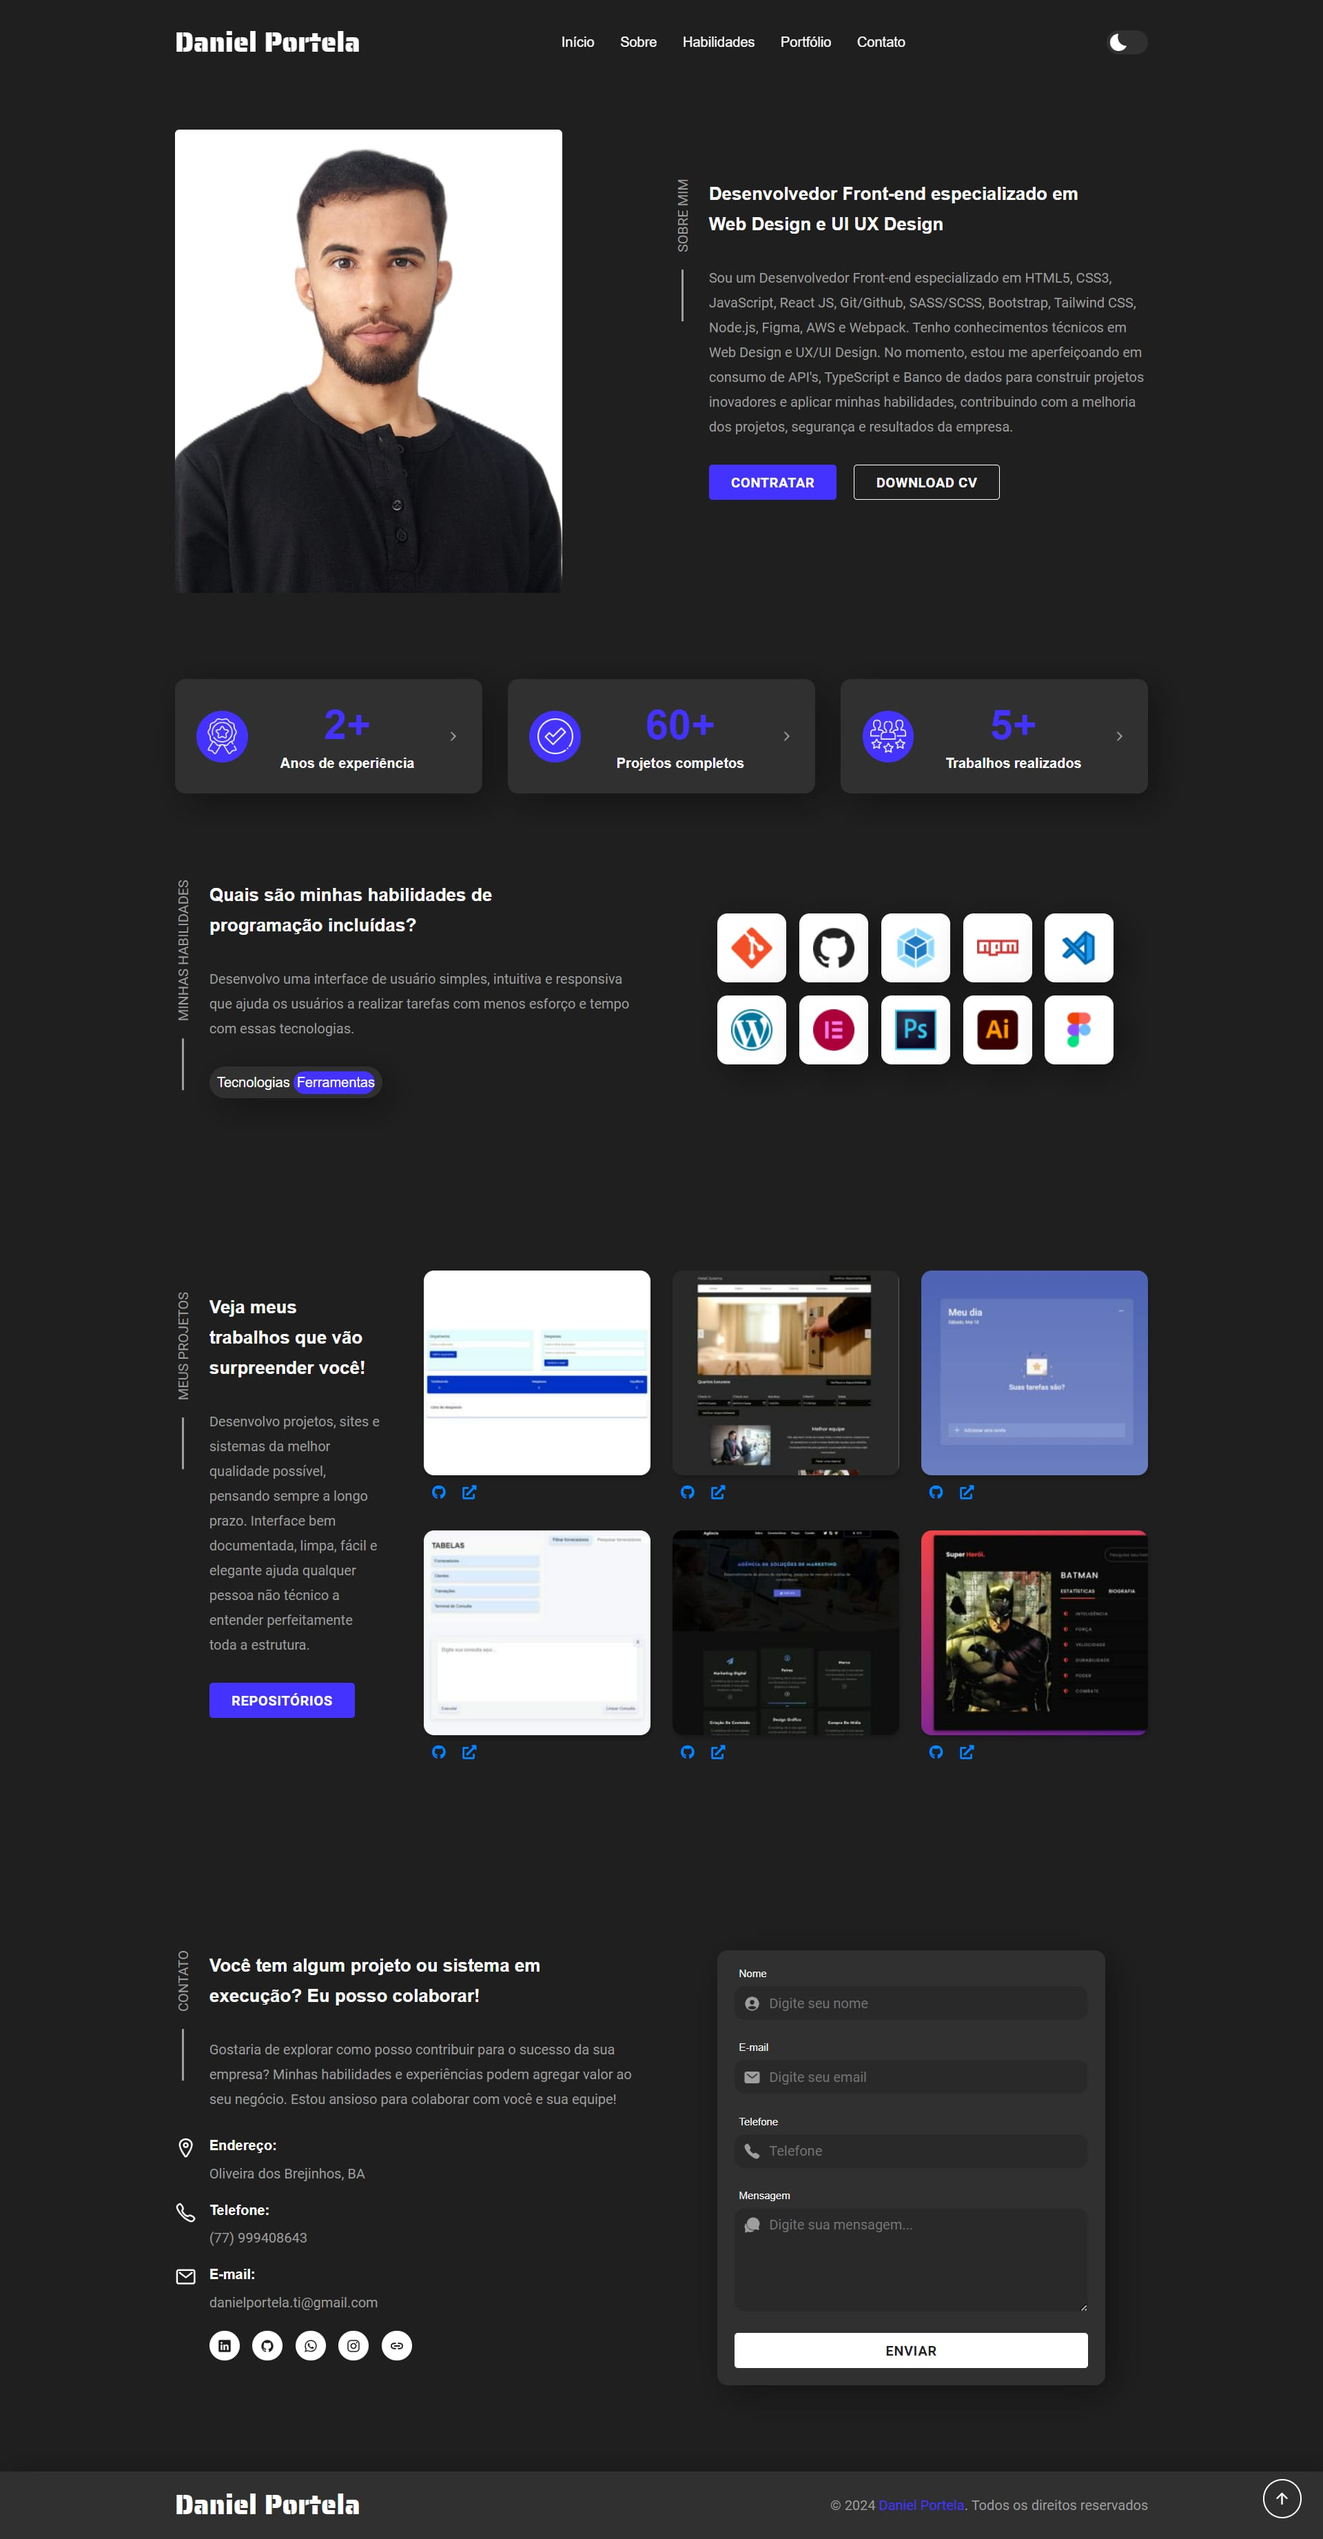
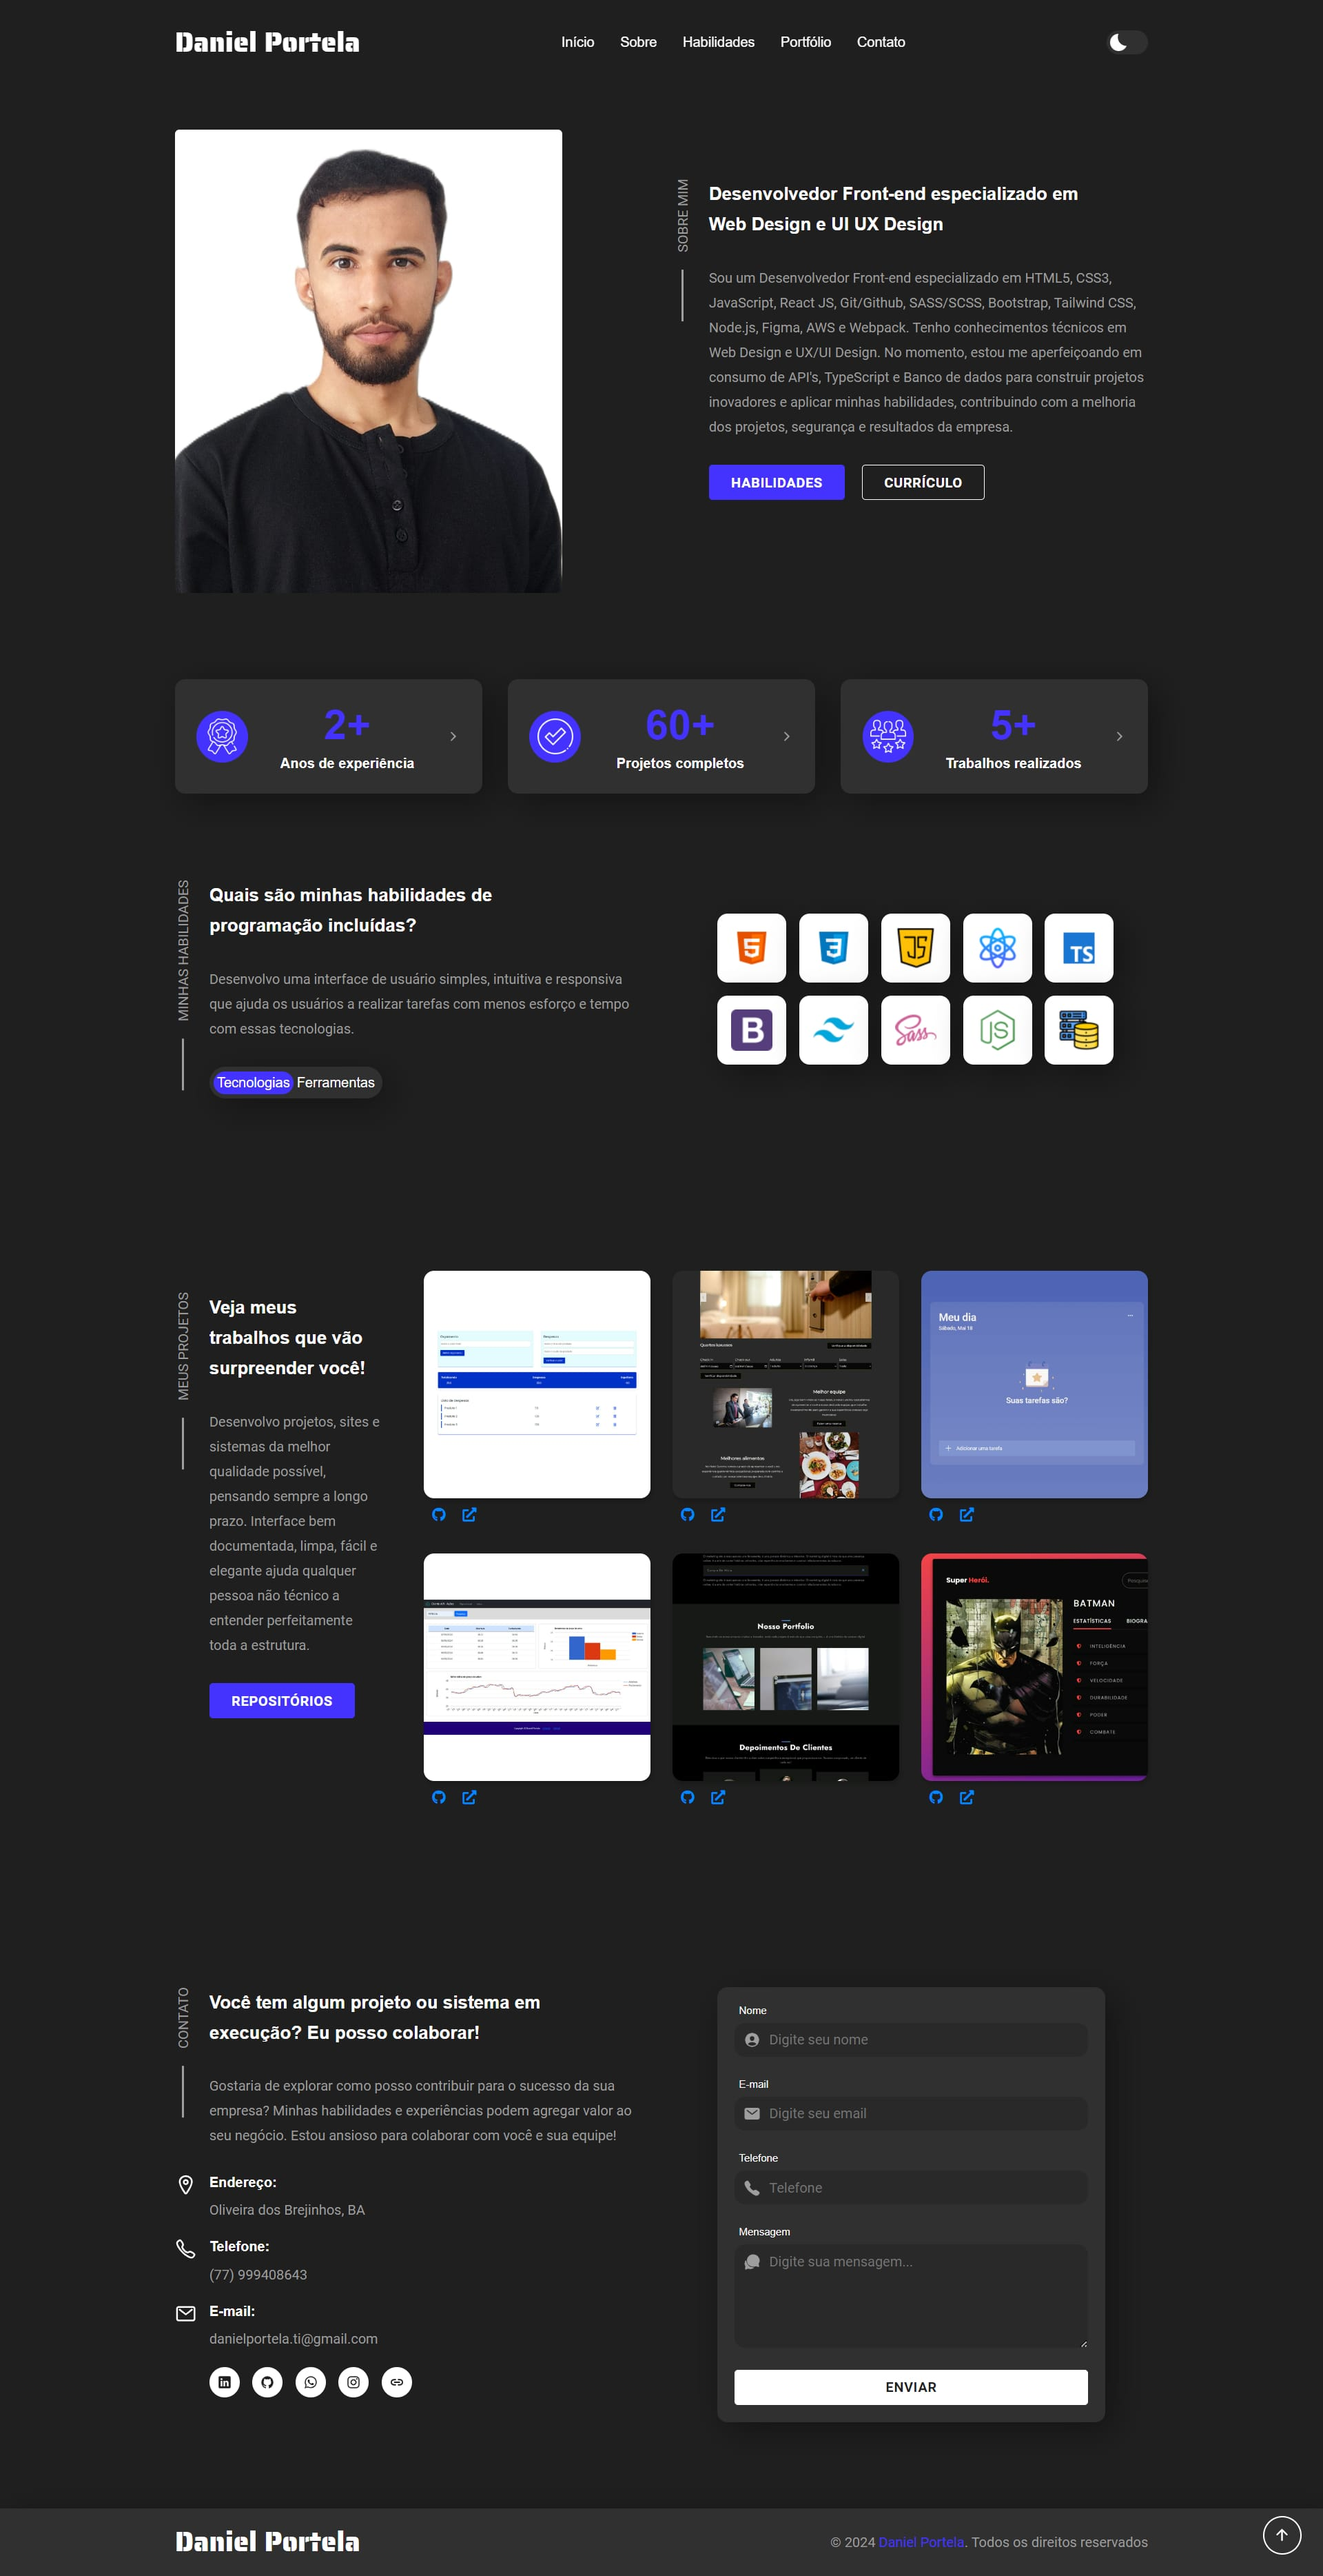
Atualizar portfolio

diff --git a/index.html b/index.html
@@ -80,8 +80,7 @@
           </p>
 
           <div class="btn-group">
-            <a href="https://wa.me/77999408643" target="_blank" rel="noopener noreferrer"><button
-                class="btn btn-secondary">Contratar</button></a>
+            <a href="#skills"><button class="btn btn-secondary">Habilidades</button></a>
             <a href="https://drive.google.com/file/d/1KGV1meCGfsobP3djynBb8-dXLF25mbFu/view" target="_blank"><button
                 class="btn btn-primary">Currículo</button></a>
           </div>
@@ -351,7 +350,7 @@
           <li>
             <a href="https://pagebudget.netlify.app/" class="project-card" target="_blank">
               <figure class="card-banner">
-                <img src="./assets/images/orcamento.jpg" class="w-100"
+                <img src="./assets/images/pagebudget.jpg" class="w-100"
                   alt="A fujifilm instant camera on a dark electric blue background.">
                 </div>
               </figure>
@@ -361,10 +360,10 @@
               </div>
             </a>
             <div class="card-links">
-              <a href="https://github.com/daniel-portela/budget-page" target="_blank">
+              <a href="https://github.com/daniel-portela/budget-page" target="_blank" title="ver explicação">
                 <i class="fab fa-github"></i>
               </a>
-              <a href="https://pagebudget.netlify.app/" target="_blank">
+              <a href="https://pagebudget.netlify.app/" target="_blank" title="vizualizar">
                 <i class="fas fa-external-link-alt"></i>
               </a>
           </li>
@@ -372,20 +371,21 @@
           <li>
             <a href="https://bancodedadosjs.netlify.app/" class="project-card" target="_blank">
               <figure class="card-banner">
-                <img src="./assets/images/bancodedados.jpg" class="w-100"
+                <img src="./assets/images/interface-api.jpg" class="w-100"
                   alt="Projeto de sistemas de consulta de banco de dados">
                 </div>
               </figure>
               <div class="card-content">
-                <h3 class="h4 card-title">Banco de dados</h3>
-                <time class="publish-date" datetime="2022-04">HTML, CSS e JavaScript</time>
+                <h3 class="h4 card-title">Interface API Ações</h3>
+                <time class="publish-date" datetime="2022-04">HTML, CSS, JavaScript e API</time>
               </div>
             </a>
             <div class="card-links">
-              <a href="https://github.com/daniel-portela/consulta-banco-de-dados" target="_blank">
+              <a href="https://github.com/daniel-portela/interface-api-cliente-acoes" target="_blank"
+                title="ver explicação">
                 <i class="fab fa-github"></i>
               </a>
-              <a href="https://bancodedadosjs.netlify.app/" target="_blank">
+              <a href="https://cotacaoapiclient.netlify.app/" target="_blank" title="vizualizar">
                 <i class="fas fa-external-link-alt"></i>
               </a>
           </li>
@@ -403,10 +403,10 @@
               </div>
             </a>
             <div class="card-links">
-              <a href="https://github.com/daniel-portela/hotel-Jurema-website" target="_blank">
+              <a href="https://github.com/daniel-portela/hotel-Jurema-website" target="_blank" title="ver explicação">
                 <i class="fab fa-github"></i>
               </a>
-              <a href="https://juremahotel.netlify.app/" target="_blank">
+              <a href="https://juremahotel.netlify.app/" target="_blank" title="vizualizar">
                 <i class="fas fa-external-link-alt"></i>
               </a>
           </li>
@@ -424,10 +424,11 @@
               </div>
             </a>
             <div class="card-links">
-              <a href="https://github.com/daniel-portela/digital-marketing-agency" target="_blank">
+              <a href="https://github.com/daniel-portela/digital-marketing-agency" target="_blank"
+                title="ver explicação">
                 <i class="fab fa-github"></i>
               </a>
-              <a href="https://digital-marketing-agency-lovat.vercel.app/" target="_blank">
+              <a href="https://digital-marketing-agency-lovat.vercel.app/" target="_blank" title="vizualizar">
                 <i class="fas fa-external-link-alt"></i>
               </a>
           </li>
@@ -445,10 +446,10 @@
               </div>
             </a>
             <div class="card-links">
-              <a href="https://github.com/daniel-portela/taskbuddy" target="_blank">
+              <a href="https://github.com/daniel-portela/taskbuddy" target="_blank" title="ver explicação">
                 <i class="fab fa-github"></i>
               </a>
-              <a href="https://apptaskbuddy.netlify.app/" target="_blank">
+              <a href="https://apptaskbuddy.netlify.app/" target="_blank" title="vizualizar">
                 <i class="fas fa-external-link-alt"></i>
               </a>
           </li>
@@ -466,10 +467,10 @@
               </div>
             </a>
             <div class="card-links">
-              <a href="https://github.com/daniel-portela/projeto-api" target="_blank">
+              <a href="https://github.com/daniel-portela/projeto-api" target="_blank" title="ver explicação">
                 <i class="fab fa-github"></i>
               </a>
-              <a href="https://apisuperhero.netlify.app/" target="_blank">
+              <a href="https://apisuperhero.netlify.app/" target="_blank" title="vizualizar">
                 <i class="fas fa-external-link-alt"></i>
               </a>
           </li>

diff --git a/README.md b/README.md
@@ -5,7 +5,7 @@ Portfólio <a href="https://danielportela.netlify.app/">Daniel Portela</a>
 <p>Você pode visualizar meu portfólio online aqui e explorar todos os recursos e funcionalidades implementados. Por favor, note que este projeto não é destinado a ser clonado. No entanto, sinta-se à vontade para examinar o código-fonte para aprender e se inspirar em suas próprias criações.</p>
 </div>
 
-![preview](https://github.com/daniel-portela/meu-portfolio/assets/110783805/7b23c18b-45f2-4b6a-b74e-a9a1e111759f)
+![Daniel Portela](readme-images/preview.jpg)
 
 👨🏼💻 <b>Tecnologias utilizadas:</b>
 
